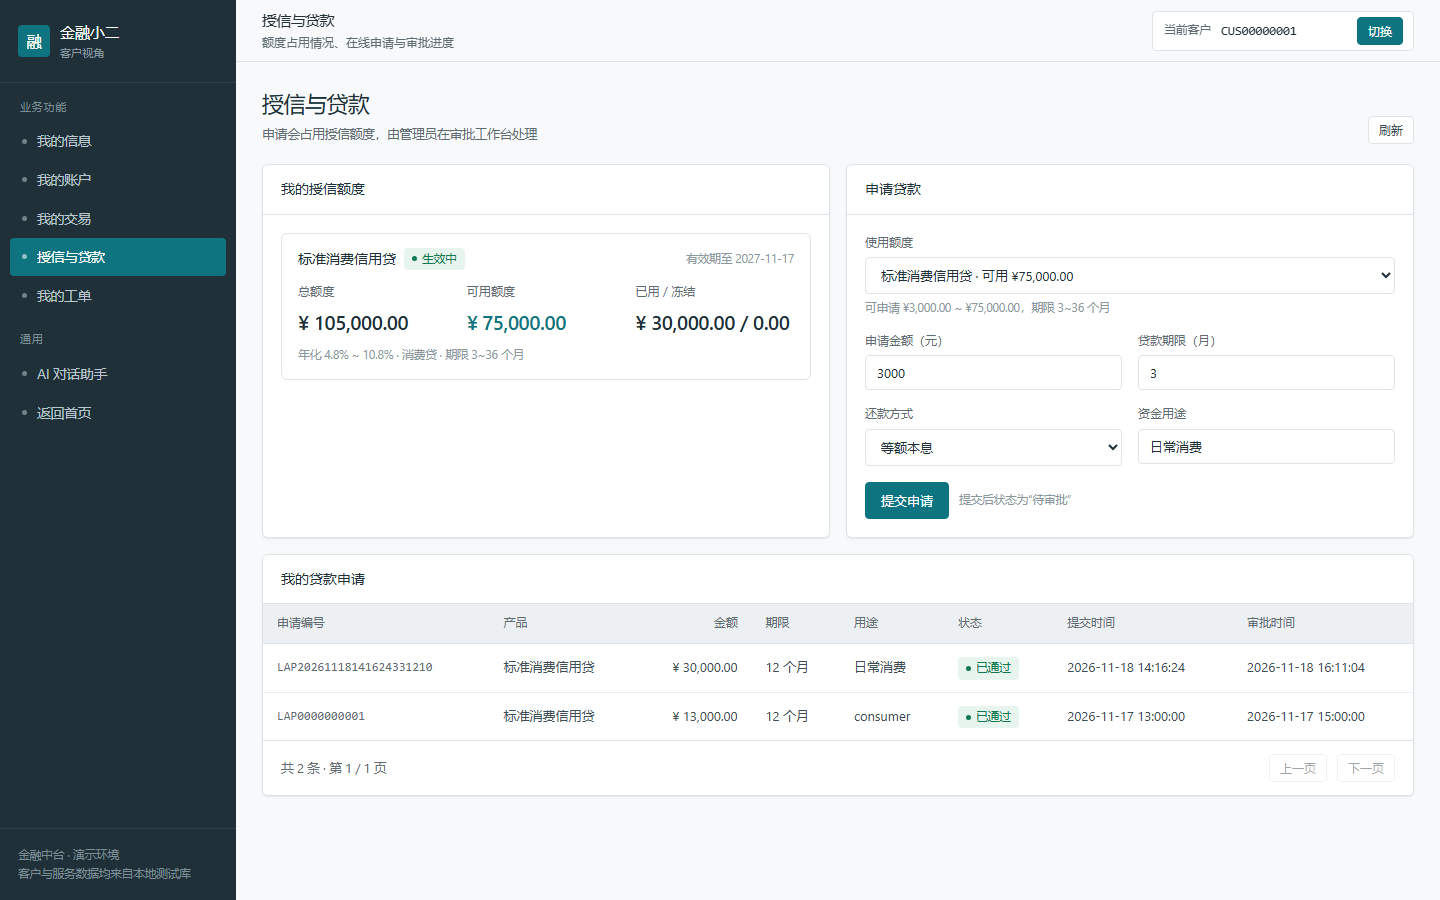
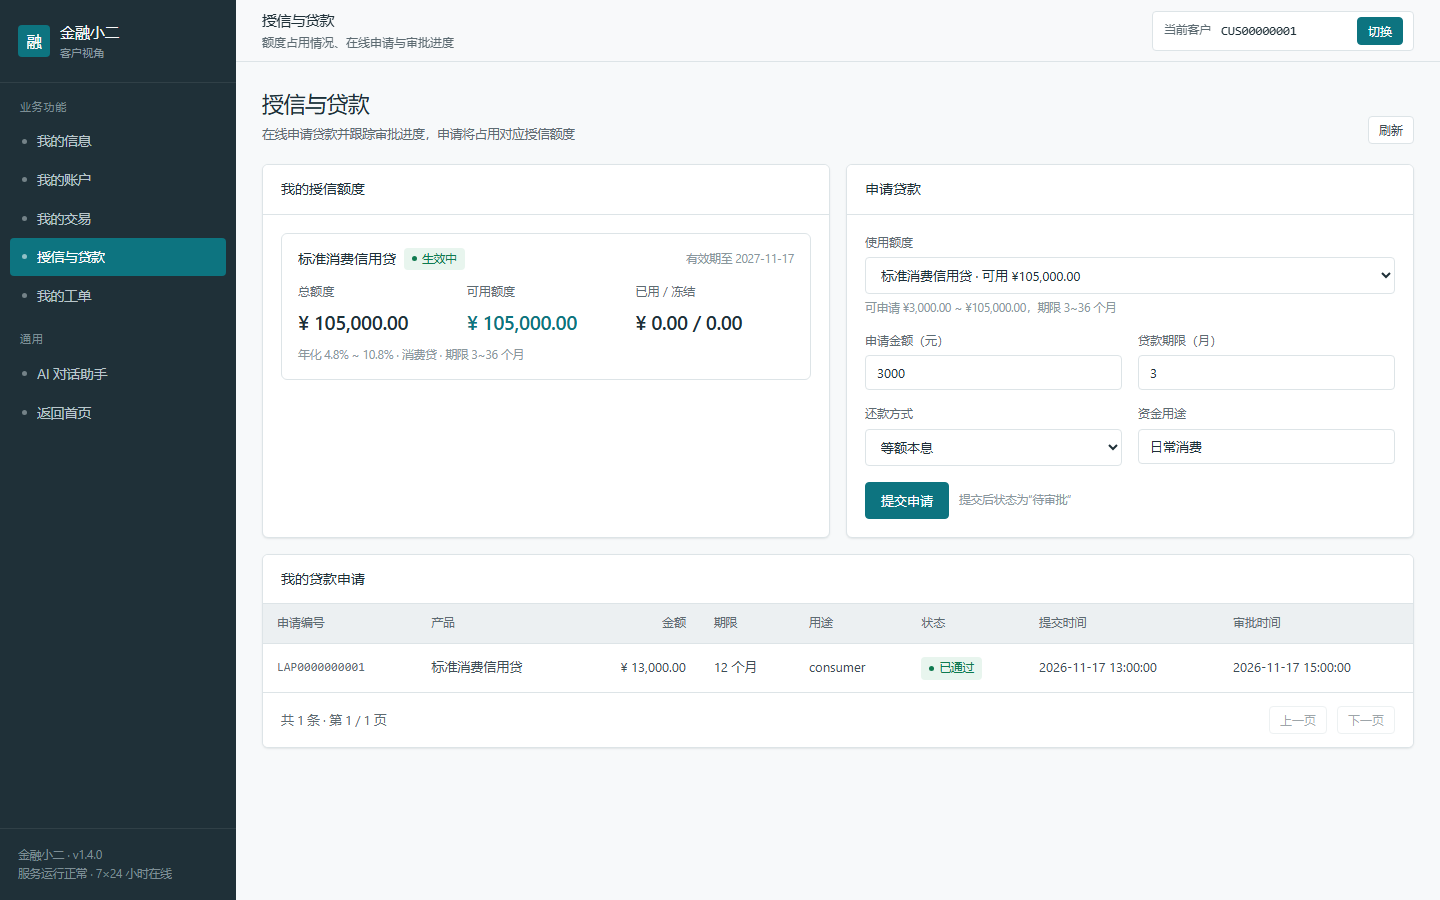
docs: 优化 README 并更新门户截图
- 新增技术栈表，补齐 MySQL / Docker badge
- 补充测试复跑命令、端口说明与四条关键设计取舍
- 架构图补全第 9 个业务域（运营）
- 按最新前端重新截取 6 张门户截图，移除旧演示提示

diff --git a/README.md b/README.md
@@ -4,12 +4,25 @@
 ![Python](https://img.shields.io/badge/Python-3.12-3776AB?logo=python&logoColor=white)
 ![FastAPI](https://img.shields.io/badge/FastAPI-0.115%2B-009688?logo=fastapi&logoColor=white)
 ![Tests](https://img.shields.io/badge/tests-58%20passed-brightgreen)
+![MySQL](https://img.shields.io/badge/MySQL-8.0-4479A1?logo=mysql&logoColor=white)
+![Docker](https://img.shields.io/badge/Docker-Compose-2496ED?logo=docker&logoColor=white)
 
 面向零售银行的**金融业务中台 + 智能对话客服 + 业务门户**一体化演示项目。
 
 中台用 FastAPI + MySQL 模拟真实银行核心链路（开户、账户、交易、授信、贷款、还款、风控、催收、工单），
 客服侧把同一批接口封装成流程化的自然语言服务，门户则提供客户、管理员、AI 三种使用视角。
 全部业务数据为程序生成的测试数据，可一键初始化、可重复演练。
+
+### 技术栈
+
+| 层 | 技术 |
+| --- | --- |
+| 业务中台 | FastAPI · Pydantic · PyMySQL · MySQL 8 |
+| 对话引擎 | 自研流程引擎（YAML）· Jinja2 · httpx |
+| 大模型 | 通义千问（意图规划 + 回复生成） |
+| 知识库 | FAQ 种子数据 + 可插拔 RAG 检索 |
+| 前端 | 原生 HTML / CSS / JS（零构建，12 个页面） |
+| 工程质量 | ruff · pytest · GitHub Actions · Docker Compose |
 
 ---
 
@@ -76,6 +89,19 @@
 - **单元测试**：58 条（中台 53 + 客服 5），不依赖 MySQL / LLM / 外网。中台覆盖幂等、分页、校验器、
   请求 ID、限流、指标、审计脱敏、异常处理器与鉴权辅助函数；客服覆盖知识空结果兜底、意图路由与种子数据完整性
 
+本地复跑：
+
+```bash
+# 中台（不依赖数据库）
+uv run --offline ruff check .
+uv run --offline pytest tests/unit -q
+
+# 客服
+cd finance-assistant
+uv run --offline ruff check .
+uv run --offline pytest -q
+```
+
 ### 请求链路
 
 - 每个响应都带 `X-Request-Id`：调用方传入合法 ID 则透传，否则自动生成，响应体 `request_id` 与之一致
@@ -113,7 +139,7 @@
                ▼                                         ▼
         ┌──────────────────────────────────────────────────────┐
         │            金融中台 finance-data（FastAPI）             │
-        │  客户 · 账户 · 交易 · 理财 · 信贷 · 还款 · 风控 · 催收    │
+        │  客户 · 账户 · 交易 · 理财 · 信贷 · 还款 · 风控 · 催收 · 运营 │
         └──────────────────────────┬───────────────────────────┘
                                    ▼
                         ┌────────────────────┐
@@ -128,6 +154,13 @@
 | 业务门户 + 客服 | `18083` | 网页入口 `http://127.0.0.1:18083/` |
 | 金融中台 | `8000` | 业务接口，Swagger `/docs` |
 | MySQL | `3307`（Docker） | 映射到容器内 `3306`，避开宿主机已有实例 |
+
+### 关键设计
+
+- **LLM 只做规划**：模型只输出 `TurnPlan`，具体流程、跳转与调用由 YAML 配置和 `TurnPlanValidator` 决定，避免“模型自由发挥”
+- **失败转澄清**：计划校验失败、对象无法匹配时进入澄清分支，不让模型异常直接变成 500
+- **槽位三级取值**：`active task slots` → `focused_object` 映射 → 主动追问，保证多轮补槽稳定
+- **写接口幂等**：中台写操作统一携带 `request_no`，重复提交不会重复建单或重复扣款
 
 ---
 
@@ -217,7 +250,7 @@ uv run python main.py                    # http://127.0.0.1:18083
 
 | 变量 | 示例 | 说明 |
 | --- | --- | --- |
-| `DB_HOST` / `DB_PORT` | `127.0.0.1` / `3306` | MySQL 连接 |
+| `DB_HOST` / `DB_PORT` | `127.0.0.1` / `3306` | 本地 MySQL；Docker 场景由 compose 注入，宿主机映射为 `3307` |
 | `DB_USER` / `DB_PASSWORD` | `root` / `******` | 数据库账号 |
 | `DB_NAME` | `finance` | 业务库 |
 | `APP_PORT` | `8000` | 服务端口 |
